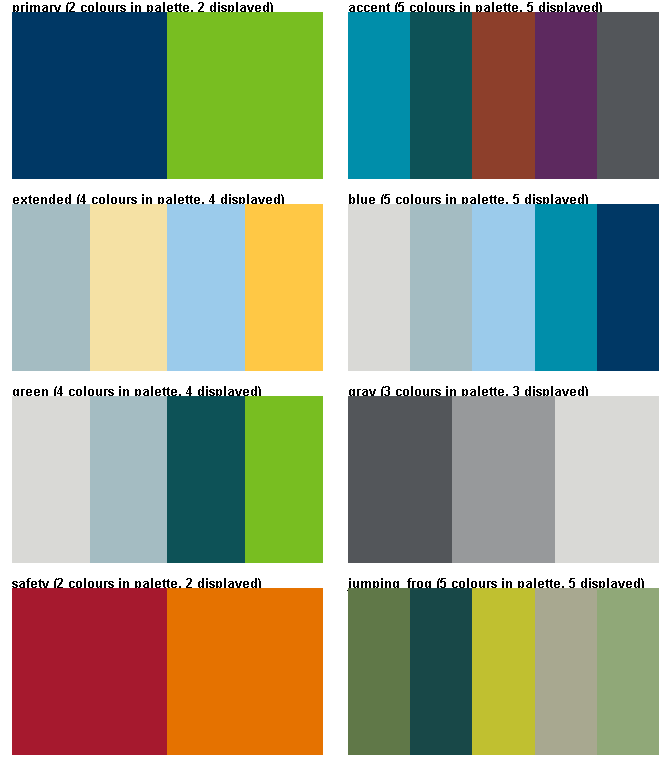
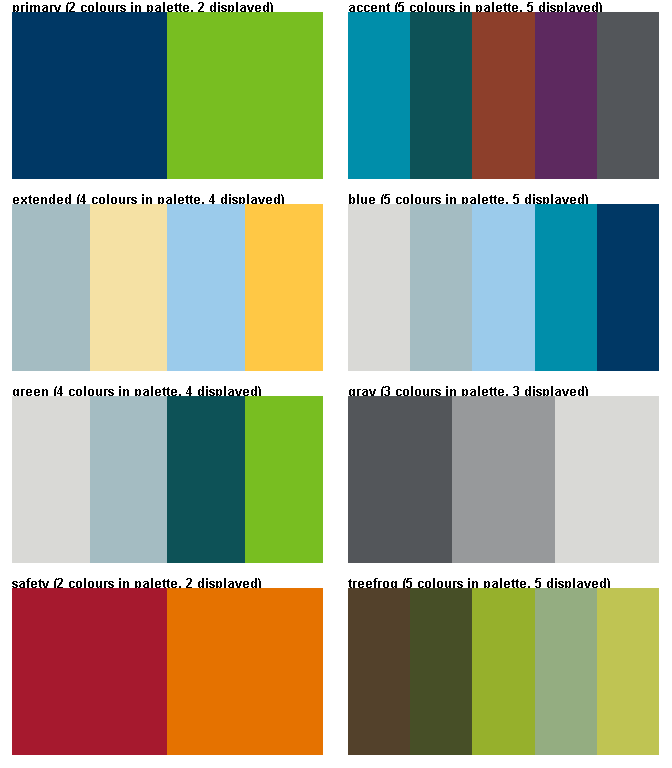
add treefrog pal

Changed region(s): [[0.5, 0.75, 1.0, 1.0]]

diff --git a/README.md b/README.md
@@ -20,9 +20,11 @@ remotes::install_github("MPCA-data/mncolors")
 
 ## The Palettes
 
+There are currently 8: primary, accent, extended, blue, green, gray,
+safety, treefrog, and *trout (coming soon…)*.
+
 ``` r
 pal_names <- names(mn_palettes)
-
 
 par(mfrow=c(length(mn_palettes)/2, 2), lheight = 2, mar=rep(1, 4), adj = 0)
 
